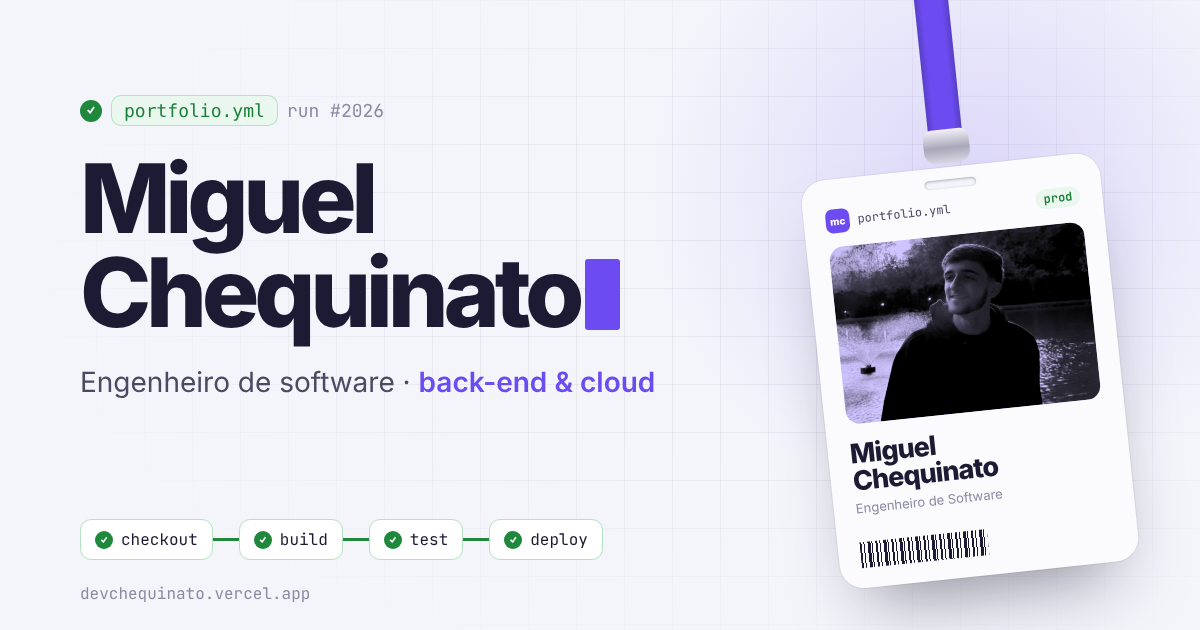
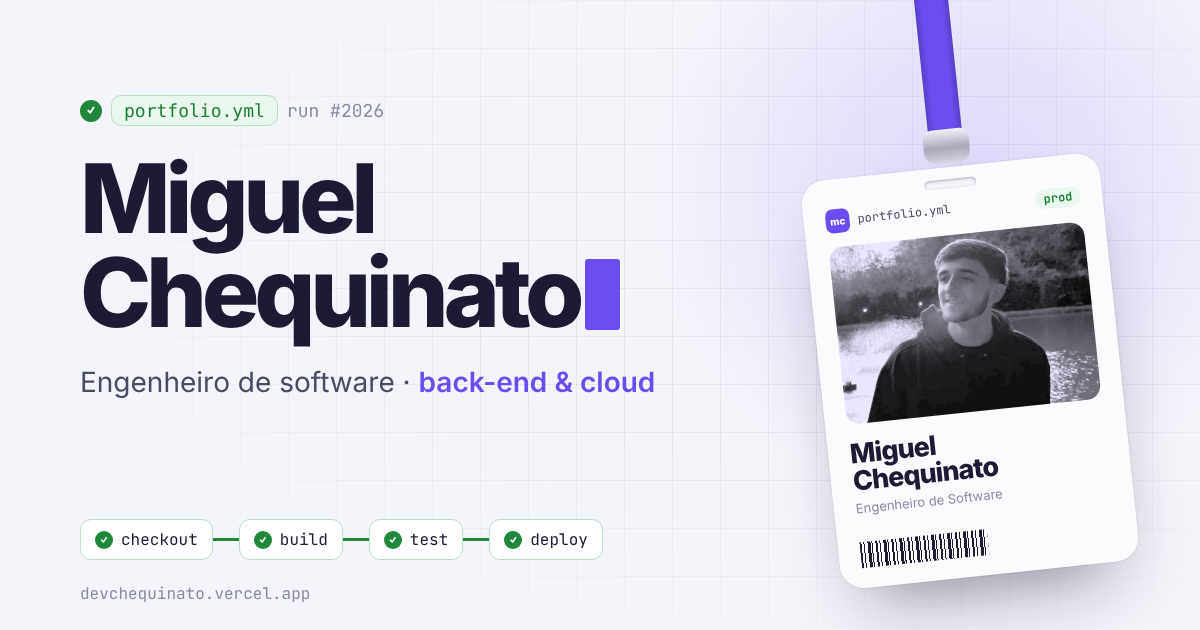
fix: foto do crachá mais clara
A foto original é de pôr do sol e o duotone escurecia ainda mais.
Agora o crachá usa uma versão com as sombras clareadas (curva de gama),
um duotone mais leve e um zoom suave no rosto. A mesma foto clareada
vai para o avatar dos posts do LinkedIn e para a imagem de
compartilhamento.

Claude-Session: https://claude.ai/code/session_016CFv2DRLUiMEZexhptrLVf

Changed region(s): [[0.6783, 0.3317, 0.925, 0.6937]]

diff --git a/src/styles/main.css b/src/styles/main.css
@@ -4560,7 +4560,7 @@ a.card:hover {
   height: 178px;
   border-radius: 14px;
   overflow: hidden;
-  background: #cfc4ff;
+  background: #ece7ff;
 }
 
 .badge__photo img {
@@ -4568,8 +4568,11 @@ a.card:hover {
   height: 100%;
   object-fit: cover;
   object-position: 55% 28%;
-  filter: grayscale(1) contrast(1.15) brightness(1.08);
+  filter: grayscale(1) contrast(1.02) brightness(1.1);
   mix-blend-mode: multiply;
+  /* zoom leve no rosto */
+  transform: scale(1.18);
+  transform-origin: 58% 22%;
   transition:
     filter 0.6s,
     transform 0.8s var(--ease);
@@ -4577,9 +4580,9 @@ a.card:hover {
 }
 
 .badge:hover .badge__photo img {
-  filter: none;
+  filter: brightness(1.04);
   mix-blend-mode: normal;
-  transform: scale(1.04);
+  transform: scale(1.24);
 }
 
 .badge__name {

diff --git a/src/components/Badge.tsx b/src/components/Badge.tsx
@@ -1,5 +1,6 @@
 import { useEffect, useRef, useState, type PointerEvent } from "react";
-import photo from "@/assets/profile-photo.png";
+// Versão da foto com as sombras clareadas (a original é de pôr do sol).
+import photo from "@/assets/profile-badge.jpg";
 import { profile } from "@/data/profile";
 
 // Crachá pendurado num cordão, com física de pêndulo: balança sozinho,

diff --git a/src/components/LinkedIn.tsx b/src/components/LinkedIn.tsx
@@ -1,5 +1,5 @@
 import { useCallback, useEffect, useRef, useState, type PointerEvent } from "react";
-import photo from "@/assets/profile-photo.png";
+import photo from "@/assets/profile-badge.jpg";
 import { posts, postUrl, linkedinStats, type Post } from "@/data/linkedin";
 import { profile, links } from "@/data/profile";
 import type { Instrument } from "@/data/projects";
